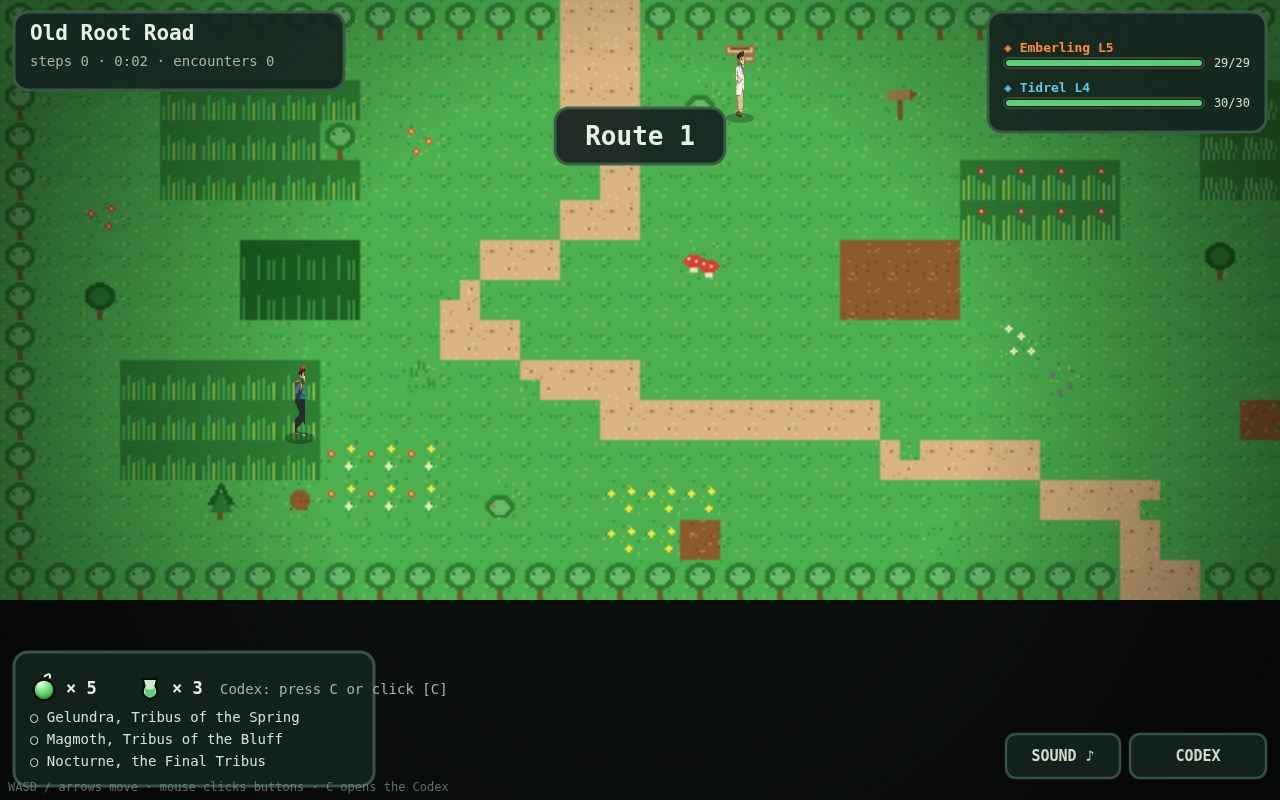
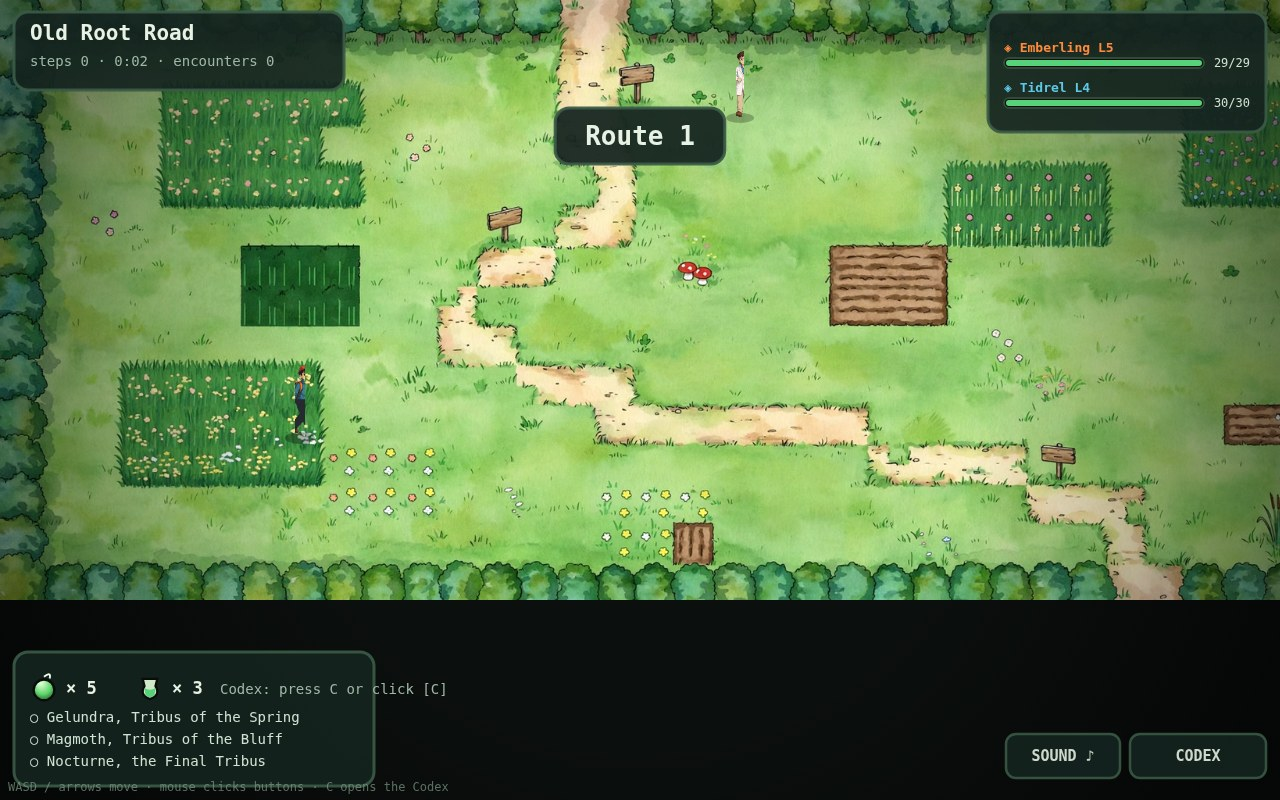
Swap world maps to Ghibli watercolor art (5 zones, presentation layer; pixel grids stay for collision) + pageerror stack capture in test

diff --git a/game/src/world.js b/game/src/world.js
@@ -11,11 +11,11 @@ import { mulberry32, pickWeighted, roll, rint } from './random.js';
 export { T } from './config.js';
 
 const ZDEF = {
-  town:     { map: 'town_map_480x320.png',      encounter: false, name: 'Verdant Town' },
-  route:    { map: 'route1_map_640x240.png',    encounter: true,  wild: 'moss',  name: 'Route 1' },
-  forest:   { map: 'forest_map_480x480.png',    encounter: true,  wild: 'moss',  name: 'Whisper Forest' },
-  cave:     { map: 'cave_map_400x400.png',      encounter: true,  wild: 'cliff', name: 'Cinder Cave' },
-  interior: { map: 'house_interior_256x192.png', encounter: false, name: 'Home' },
+  town:     { map: 'ghibli-map-town.png',      encounter: false, name: 'Verdant Town' },
+  route:    { map: 'ghibli-map-route1.png',    encounter: true,  wild: 'moss',  name: 'Route 1' },
+  forest:   { map: 'ghibli-map-forest.png',    encounter: true,  wild: 'moss',  name: 'Whisper Forest' },
+  cave:     { map: 'ghibli-map-cave.png',      encounter: true,  wild: 'cliff', name: 'Cinder Cave' },
+  interior: { map: 'ghibli-map-interior.png', encounter: false, name: 'Home' },
 };
 export const MAPS = ZDEF;   // render.js reads .map per zone
 

diff --git a/test-gameplay.py b/test-gameplay.py
@@ -23,8 +23,11 @@ try:
     with sync_playwright() as p:
         browser = p.chromium.launch()
         page = browser.new_page(viewport={"width": 1280, "height": 800})
-        page.on("pageerror", lambda e: errors.append(str(e)))
-        page.on("console", lambda m: errors.append(m.text) if m.type == "error" else None)
+        def _pageerr(e):
+            errors.append(str(e))
+            print("PAGEERR:", (e.stack or str(e))[:400])
+        page.on("pageerror", _pageerr)
+        page.on("console", lambda m: (errors.append(m.text), print("CONSOLEERR:", m.text[:200], getattr(m,"location",None))) if m.type == "error" else None)
 
         # --- title -> field via Enter
         page.goto(BASE)
